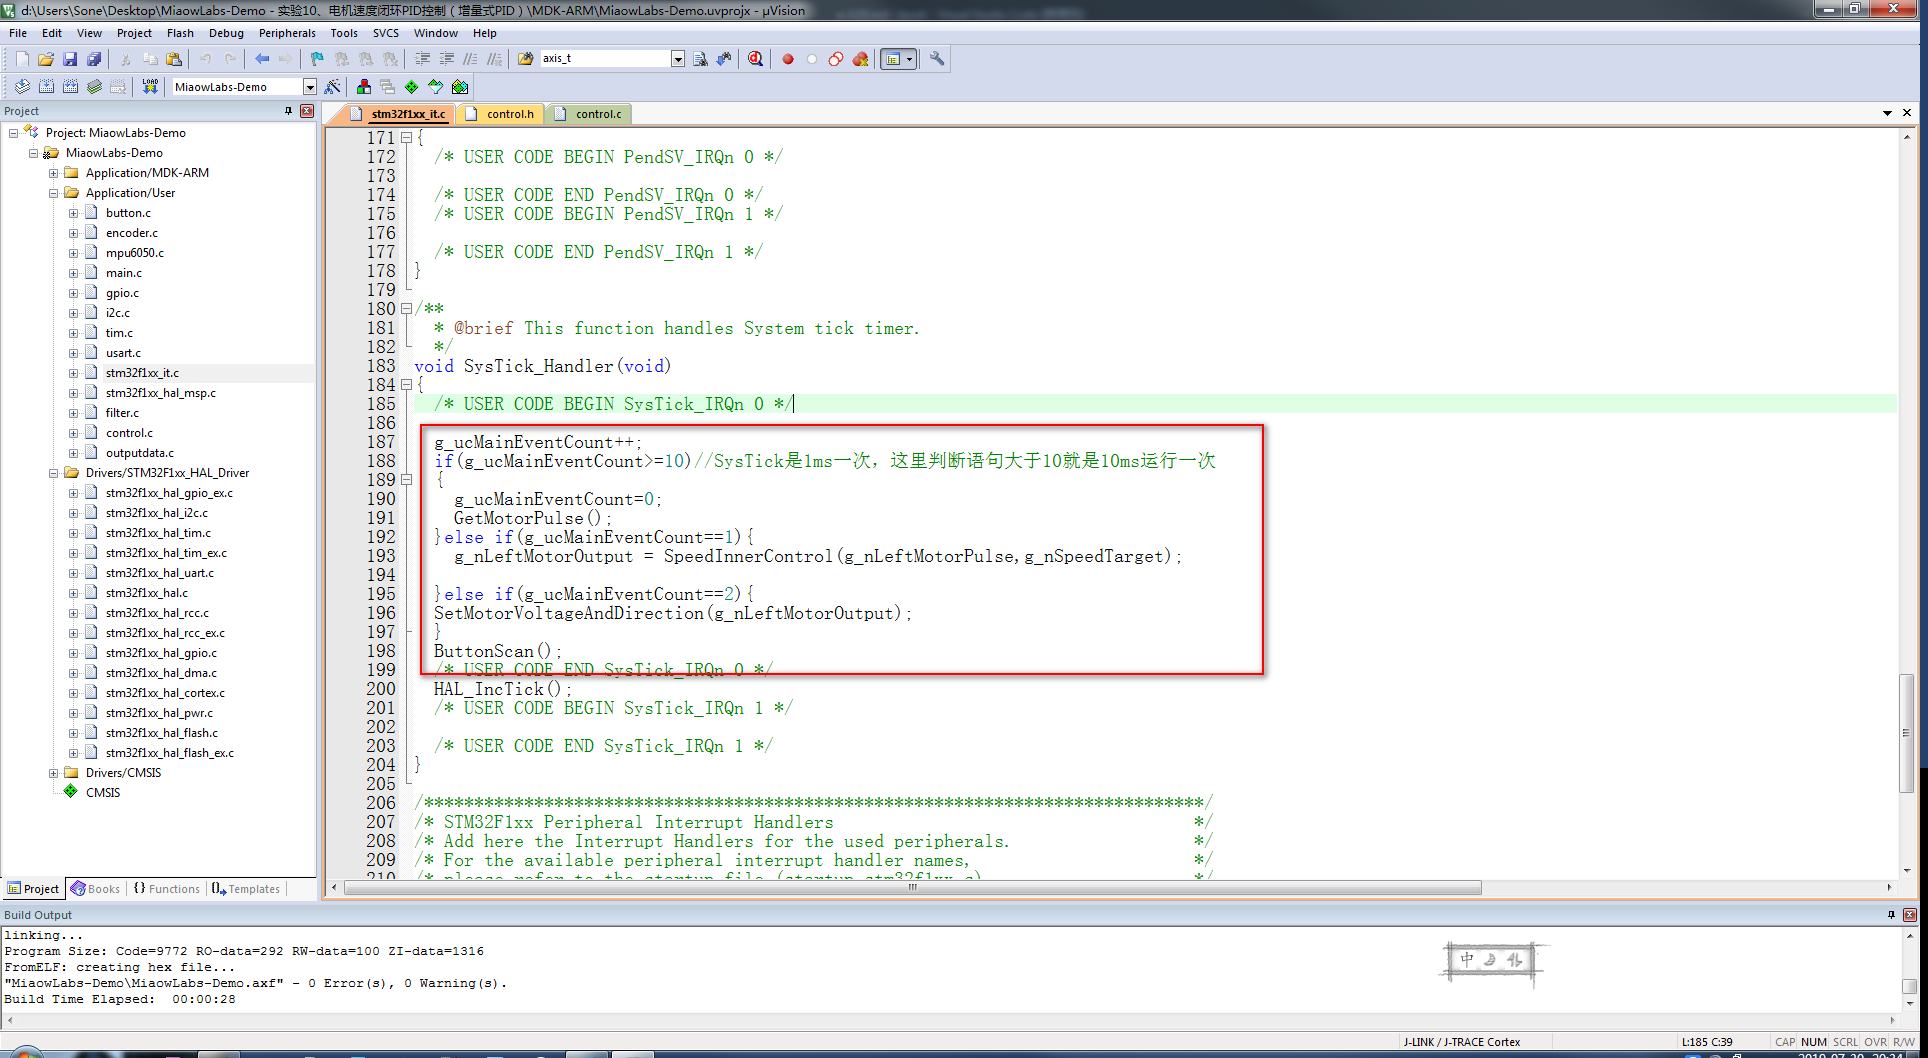
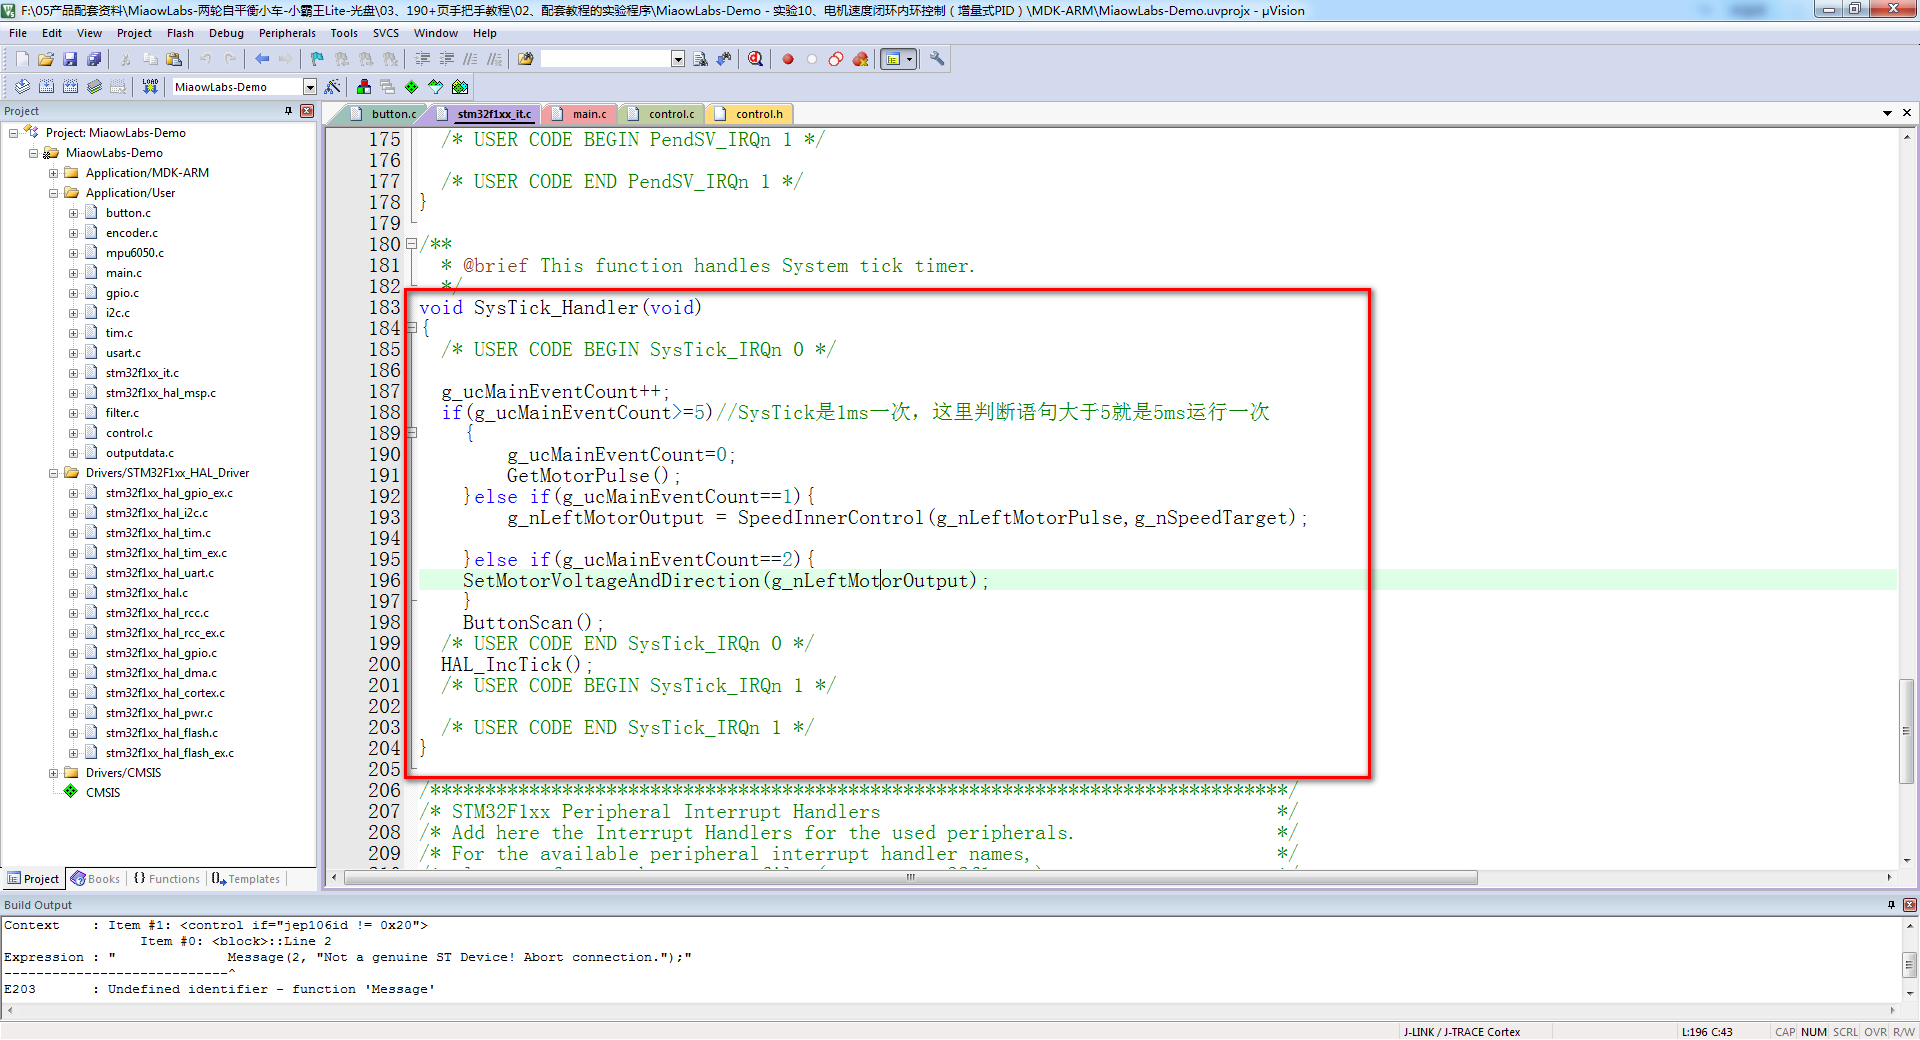
修改部分内容

Changed region(s): [[0.0, 0.0, 1.0, 1.0]]

diff --git a/A28.md b/A28.md
@@ -2,6 +2,22 @@
 
 > 本小节教你使用增量式 PID 算法，对带编码器的直流减速电机进行速度闭环内环控制。
 
+### 闭环控制
+
+闭环控制，即通过反馈环节，测量被控制对象的变化，用以修正电机输出的控制技术。
+
+对于要求不高的应用，通常采用简单的开环控制。例如，给直流有刷电机的两根引线通电，电机就会旋转；施加的电压越高，电机转速越高，力量越大。但是在很多需要精密控制的场合，仅仅这种方式还是不够的，还需要依靠一定的反馈装置，将电机的转速或位置信息反馈给微控制器或其他的机械装置，通过一定的算法变成可以调节电机控制信号的输出，从而使电机的实际转速、位置等参数与我们所希望的一致。机器人控制是一个精度要求比较高的领域，例如，基于以下的一些考虑，机器人平台需要使用闭环控制。
+
+* 开环控制情况下，移动机器人在爬坡时，电机速度会下降。更糟糕的是，当双轴独立驱动的移动机器人以一定的角度接近斜坡时。每一个车轮转速的下降值将会不同，结果是机器人的实际运动轨迹是沿着一条曲线而不是直线行进。
+
+* 不平坦的地面会造成移动机器人的两个车轮转速之间的差异。如果转速较低的车轮的驱动电机没有得到相应的电压补给，移动机器人将偏移既定的路线。
+
+* 由于安装工艺、负载不完全均衡等原因，即使是完全匹配的两个电机，并在相同的输入电压条件下，他们的速度有时仍会产生不同，即转速差。
+
+* 如果采用的是 PWM 控制，即使在 PWM 信号占空比不变的条件下，随着电池电压的逐渐下降，电机供给电压也会随之降低，从而导致电机的转速与给定值不完全一致。
+
+综合以上的一些考虑，必须选择闭环控制的方式，其工作流程如下图所示：闭环系统中加上了反馈环节（通常机器人的驱动电机使用的是增量式编码器）。在闭环控制系统中，速度指令值通过微控制器变换到功放驱动电路，功放驱动电路再为电机提供能量。编码器用于测量车轮速度的实际值并将其回馈给微控制器。基于实际转速与给定转速的差值，即“偏差”，驱动器按照一定的计算方法（如 PID 算法）调整相应的电压供给，如此反复，直到达到给定转速。
+
 ### M 法测速原理
 
 在《Timer编码器模式读取编码器》一节中，我们已经用到 M 法测速，但并未对其原理作讲解。M 法测速原理其实很简单，就是数固定时间段内的脉冲数，再用脉冲数除于时间得到速度。脉冲数是速度的一个表征量，用固定时间段内累计的脉冲数除于该固定时间，就可以求得该固定时间段的平均速度。固定时间段的时间越短，所求得的速度就越接近瞬时速度。
@@ -110,7 +126,7 @@ void SetMotorVoltageAndDirection(int nMotorPwm);
 /* USER CODE BEGIN SysTick_IRQn 0 */
 	
   g_ucMainEventCount++;
-  if(g_ucMainEventCount>=10)//SysTick是1ms一次，这里判断语句大于10就是10ms运行一次
+  if(g_ucMainEventCount>=5)//SysTick是1ms一次，这里判断语句大于5就是5ms运行一次
 	{
 		g_ucMainEventCount=0;
 		GetMotorPulse();
@@ -128,9 +144,9 @@ void SetMotorVoltageAndDirection(int nMotorPwm);
 
 ![代码截图](/img/2019-07-30_203413.png)
 
-这段代码的意思是，每 10ms 对电机进行一次控制，依次读取脉冲，进行速度内环控制，设置电机电压和方向。
+这段代码的意思是，每 5ms 对电机进行一次控制，依次读取脉冲，进行速度内环控制，设置电机电压和方向。
 
-有些好奇萌在这里会产生困惑：为什么中断服务函数里的代码写法这么奇怪？为什么要每 1ms 单独运行一部分代码？既然要 10ms 运行一次代码，那么我直接把中断时间改成 10ms，然后在 10ms 中断里运行全部代码不更简单吗？对，你的理解是对的。按你所想的来做也是正确的。但是，因为我们这里使用的是滴答定时器 SysTick，默认就是 1ms 运行一次，而且 HAL 库里面的延时函数 HAL_Delay() 也是以滴答定时器 SysTick 为基准获得延时的时间，如果我们把 SysTick 改成了 10ms，那么还需要改动 HAL 库中的相关函数代码，更加麻烦。
+有些好奇萌在这里会产生困惑：为什么中断服务函数里的代码写法这么奇怪？为什么要每 1ms 单独运行一部分代码？既然要 5ms 运行一次代码，那么我直接把中断时间改成 5ms，然后在 5ms 中断里运行全部代码不更简单吗？对，你的理解是对的。按你所想的来做也是正确的。但是，因为我们这里使用的是滴答定时器 SysTick，默认就是 1ms 运行一次，而且 HAL 库里面的延时函数 HAL_Delay() 也是以滴答定时器 SysTick 为基准获得延时的时间，如果我们把 SysTick 改成了 5ms，那么还需要改动 HAL 库中的相关函数代码，更加麻烦。
 
 在 main.c 文件中，加入初始化代码和主循环代码。
 
@@ -187,29 +203,31 @@ int SpeedInnerControl(int nPulse,int nTarget)//速度内环控制
 
 到这里，我们就完成了电机速度闭环内环控制的代码框架搭建。在 SpeedInnerControl() 函数中，里面有两个变量 fP、fI，电机速度闭环的关键点就在于通过整定 fP、fI 参数，使电机能够快速、稳定地达到预设的期望速度。
 
-编译代码，将代码烧录到小车。小车的电机应该组装好，并用充电器垫在小车的电池盒下方，便于观察轮子转动情况。打开虚拟示波器，通过波形可以更快速地整定参数。
+编译代码，将代码烧录到小车。小车的电机应该组装好，并用充电器垫在小车的电池盒下方，便于观察轮子转动情况。打开虚拟示波器，通过相应曲线可以更快速地整定参数。
 
-取 fP = 0，fI = 0.1 时，波形如下：
+所有测试都是在空载， PWM 载波为 10KHz 的情况下进行。
 
-![波形图](/img/2019-07-30_181213-00-0.1.png)
+取 fP = 0，fI = 0.1 时，响应曲线如下：
+
+![响应曲线](/img/2019-07-30_181213-00-0.1.png)
 
 其中红线代表电机实际速度，黄线代表电机期望速度。每隔一段时间，按下核心板上的用户按钮，给予电机一个阶跃信号。我们可以看到，此时红线不能很快速地跟随黄色线，并且两条线段稳定时，红线跟黄线之间始终有个误差。这就表明 fI = 0.1 过小了，我们可以继续增加该数值看看效果。 
 
-取 fP = 0，fI = 0.9 时，波形如下：
+取 fP = 0，fI = 0.9 时，响应曲线如下：
 
-![波形图](/img/2019-07-30_181019-00-0.9.png)
+![响应曲线](/img/2019-07-30_181019-00-0.9.png)
 
 可以看到，这时红线能够很及时地跟踪到黄线，但是出现了震荡。有没有办法能够消除震荡呢？
 
-取 fP = 2.0，fI = 0.9 时，波形如下：
+取 fP = 2.0，fI = 0.9 时，响应曲线如下：
 
-![波形图](/img/2019-07-30_210953-02-0.9.png)
+![响应曲线](/img/2019-07-30_210953-02-0.9.png)
 
 这时，可以看到红线的震荡已经没有那么明显了，控制效果明显好了很多。这表明 fP = 2.0 是能够抑制震荡的，我们可以继续增大该数值看看效果。
 
-取 fP = 10.0，fI = 0.9 时，波形如下：
+取 fP = 10.0，fI = 0.9 时，响应曲线如下：
 
-![波形图](/img/2019-07-30_180754-10-0.9.png)
+![响应曲线](/img/2019-07-30_180754-10-0.9.png)
 
 这时，可以看到红线能够及时地跟踪到黄线，并且没有发生震荡，很接近我们想要的效果。
 

diff --git a/E02.md b/E02.md
@@ -242,11 +242,7 @@ void SysTick_Handler(void)
   if(g_nMainEventCount>=5)//SysTick是1ms一次，这里判断语句大于5就是5ms运行一次
 	{
 		g_nMainEventCount=0;//主事件循环每5ms循环一次，这里清零，重新计时。
-        g_nGetPulseCount++;
-        if(g_nGetPulseCount==2){//每10ms捕获一次脉冲
-           GetMotorPulse();
-           g_nGetPulseCount=0;
-        }
+        GetMotorPulse();//每5ms捕获一次脉冲
 	}else if(g_nMainEventCount==1){//这1ms时间片段获取数据和角度计算
         GetMpuData();//获取MPU-6050数据
 		AngleCalculate();	//进行角度计算		
@@ -268,7 +264,7 @@ void SysTick_Handler(void)
 
 上个实验中，我说过 SysTick 定时器在 STM32CubeMX 中被用于 HAL 库的延时，默认是每 1ms 中断一次。我们想要每 5ms 进行完一次全部控制，我们可以定义一个 5ms 的定时中断，比如使用 Timer1（定时器1）。这是可取的方法。但由于在这里，Timer2 和 Timer4 已经配置成编码器模式，Timer3 已经配置成 PWM 输出模式，只剩下 Timer1 和 SysTick 定时器可以用了。我们后续还想继续扩展，比如扩展超声波避障，那么还需要用到定时器，得预留一路定时器备用，于是这里，我们决定预留 Timer1，使用 SysTick 定时器。 可是，偏偏 SysTick 定时器又是 1ms 就中断一次，我们可不想对其进行改动，比如设置成 5ms 中断一次，一旦改动了延时函数啥得又得跟着改了，多麻烦？有没有省心一点的办法？肯定有啦，聪明的你可能也会想到，只要将本来 5ms 内要运行的代码，分成 5 次，每次在 1ms 内运行完也是一样的效果。我们利用一个计数变量 g_nMainEventCount，然后进行计数，将代码分割好，分别放在每个 1ms 内执行，这样就大功告成啦。我们也正是这样干了，取得很好的执行效果。
 
-另外，捕获脉冲函数  GetMotorPulse() 是 10ms 执行一次，因为如果执行得太快，比如 1ms 或 5ms 执行一次，能捕获到的脉冲数比较少，这样误差会比较大，所以这个执行时间要适当。代码里使用一个计数变量 g_nGetPulseCount，对 5ms 计数两次，即 10ms 执行一次，效果还不错。
+另外，捕获脉冲函数  GetMotorPulse() 是 5ms 执行一次，因为如果执行得太快，比如 1ms 执行一次，能捕获到的脉冲数比较少，这样误差会比较大，所以这个执行时间要适当。
 
 在 main.c 源文件中加入以下初始化代码：
 

diff --git a/E03.md b/E03.md
@@ -89,11 +89,7 @@ void SysTick_Handler(void)
   if(g_nMainEventCount>=5)//SysTick是1ms一次，这里判断语句大于5就是5ms运行一次
 	{
 		g_nMainEventCount=0;//主事件循环每5ms循环一次，这里清零，重新计时。
-        g_nGetPulseCount++;
-        if(g_nGetPulseCount==2){//每10ms捕获一次脉冲
-           GetMotorPulse();
-           g_nGetPulseCount=0;
-        }
+        GetMotorPulse(); //每5ms捕获一次脉冲
 	}else if(g_nMainEventCount==1){//这1ms时间片段获取数据和角度计算
         GetMpuData();//获取MPU-6050数据
 		AngleCalculate();	//进行角度计算		
@@ -145,9 +141,7 @@ void SysTick_Handler(void)
 
 * 设定 fI = 0.05，这个时候我们可以看到，小车好像有一点来回摆动的趋势。
 
-* 设定 fI = 0.1，这个时候我们可以看到，小车已经有非常明显的大幅度来回摆动。
-
-我们记下来 fI = 0.1 时，小车已经出现明显的摆动。
+* 设定 fI = 0.1，这个时候我们可以看到，小车已经有非常明显的大幅度来回摆动。这组参数已经过大了，我们可以得到 0.1 为临界值，我们取比 0.1 小一点的值就可以，比如 0.06。
 
 ###### 再调试 fP 的大小
 
@@ -163,7 +157,7 @@ void SysTick_Handler(void)
 
 ###### 微调参数
 
-至此，我们已得到 fP=0.6，fI=0.1 是速度控制 P、 I 参数的可取值。但是，不只是这组参数可以让两轮自平衡小车稳定平衡，我们的电机性能比较好，可取范围比较大，用户可以自行在这组参数范围内进行微调，以获得更好的性能。
+至此，我们已得到 fP=0.6，fI=0.0.05 是速度控制 P、 I 参数的可取值，但这组参数并非最优值，不只是这组参数可以让两轮自平衡小车稳定平衡，我们的电机性能比较好，可取范围比较大，用户可以自行在这组参数范围内进行微调，以获得更好的性能。
 
 我们再来体验一下速度控制负反馈在平衡小车里面的效果，设定 fP=-0.6，fI=-0.1，这个时候我们可以看到， 小车会迅速往一个方向倒下。也就是说常规的速度负反馈在我们这边是“帮倒忙” 了！
 
